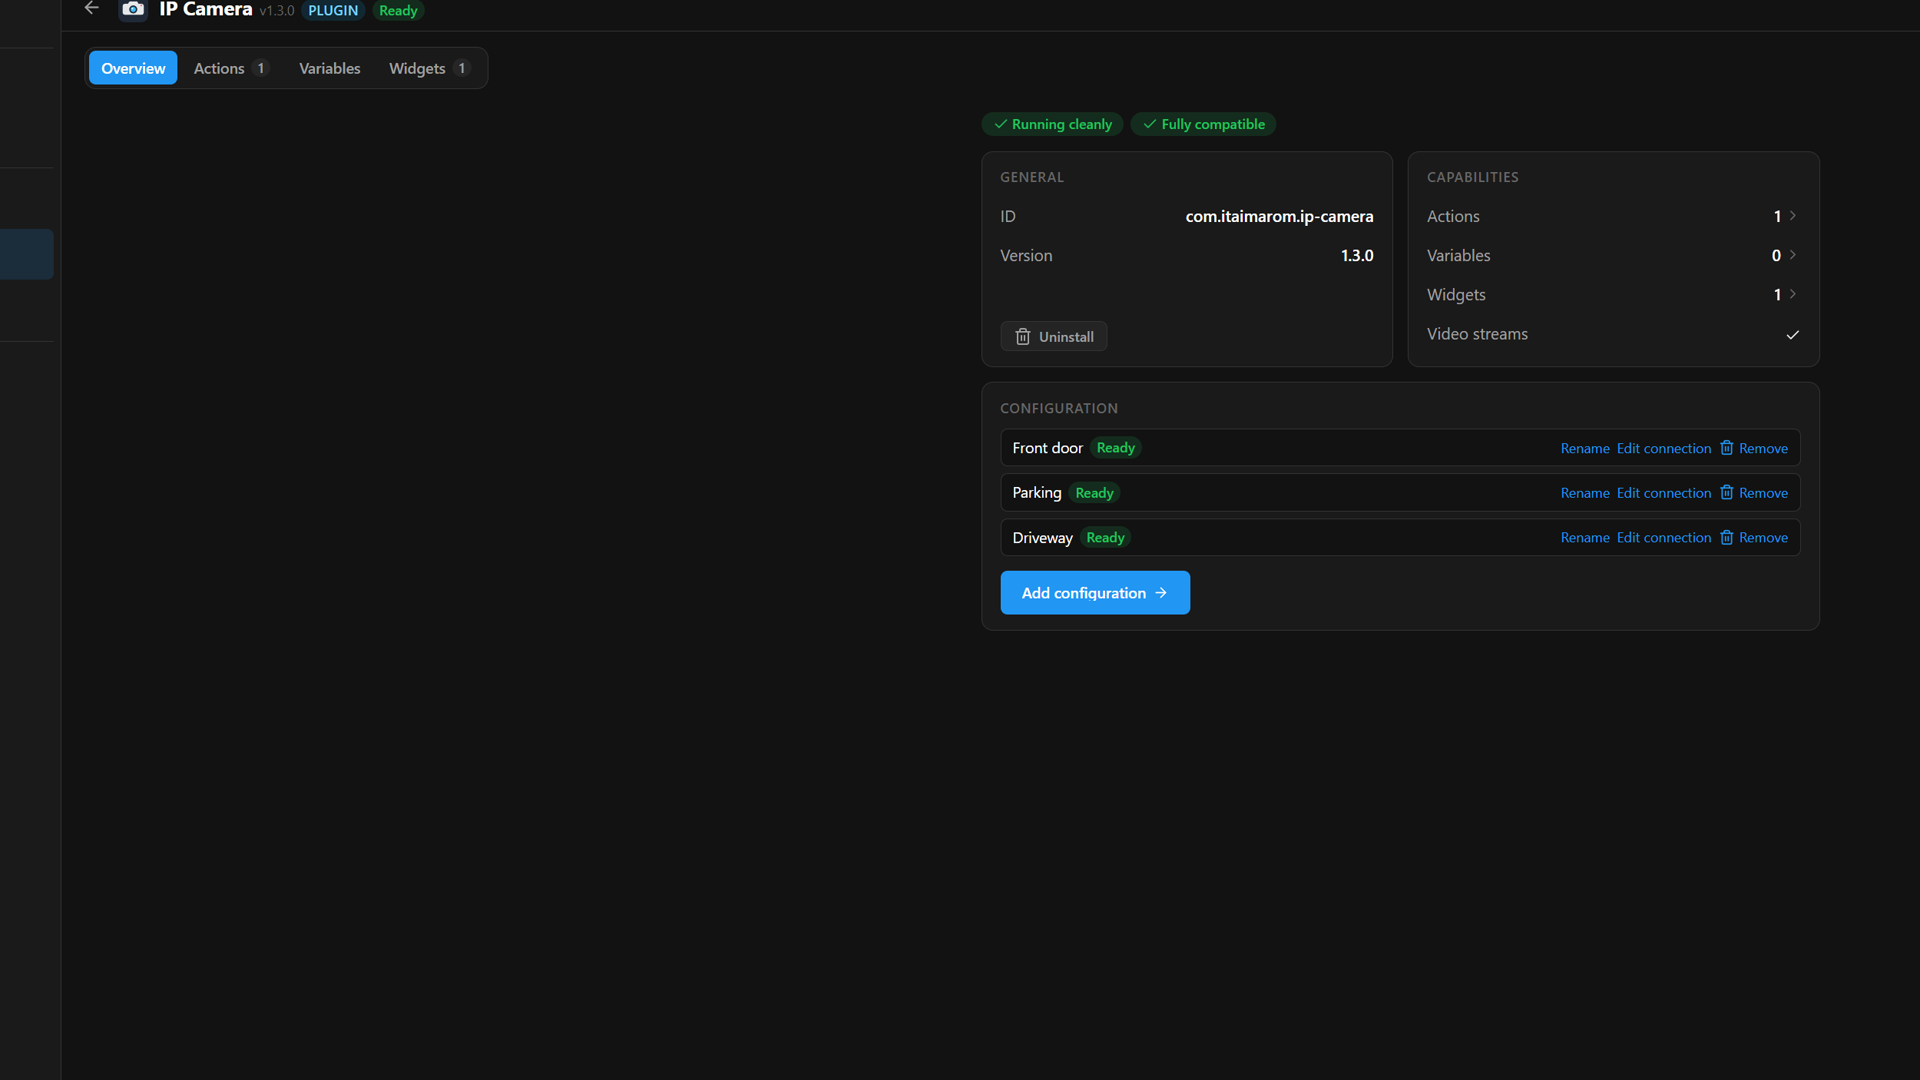
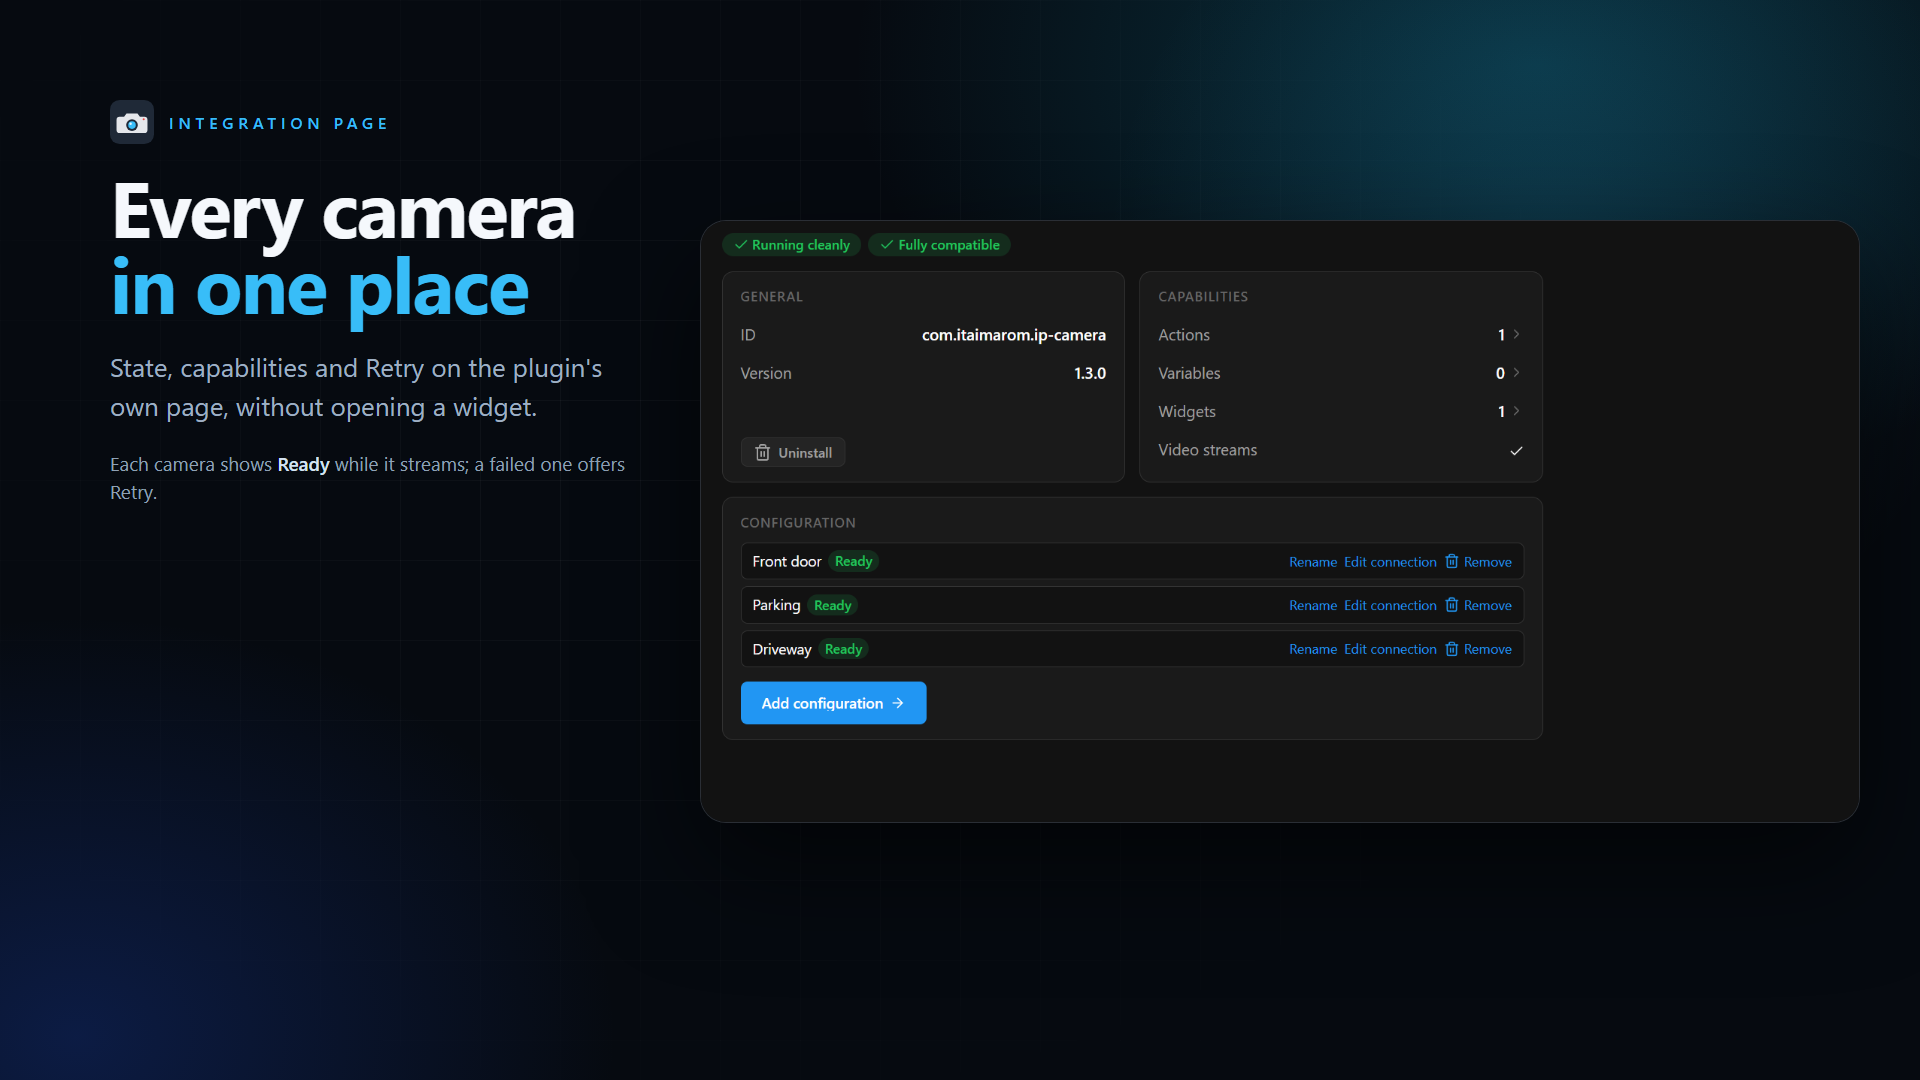
Compose the store captures as store slides
Keep the polished slide layout of the other plugin, but put only real Macro Deck captures inside the panels: the deck with Fill and Fit, the setup dialog, the modal, the integration page and a folder camera. The mockup style is gone; the surrounding background and copy are presentation.

diff --git a/store/src/slides.css b/store/src/slides.css
@@ -1,0 +1,136 @@
+:root {
+  --accent: #38bdf8;
+  --accent-soft: #7dd3fc;
+  --muted: #9fb0c3;
+  --text: #f5f8fc;
+}
+
+* { box-sizing: border-box; }
+
+html, body {
+  margin: 0;
+  width: 1920px;
+  height: 1080px;
+  overflow: hidden;
+  background: #060a10;
+  color: var(--text);
+  font-family: "Segoe UI", system-ui, -apple-system, sans-serif;
+}
+
+.bg {
+  position: absolute;
+  inset: 0;
+  background:
+    radial-gradient(1100px 700px at 80% 6%, rgba(14, 116, 144, .38), transparent 62%),
+    radial-gradient(900px 700px at 4% 96%, rgba(29, 78, 216, .26), transparent 60%),
+    #060a10;
+}
+
+.grid {
+  position: absolute;
+  inset: 0;
+  background-image:
+    linear-gradient(rgba(255, 255, 255, .035) 1px, transparent 1px),
+    linear-gradient(90deg, rgba(255, 255, 255, .035) 1px, transparent 1px);
+  background-size: 80px 80px;
+  -webkit-mask-image: radial-gradient(1200px 900px at 38% 42%, #000 18%, transparent 82%);
+}
+
+.glow {
+  position: absolute;
+  border-radius: 50%;
+  background: radial-gradient(circle, rgba(56, 189, 248, .12), transparent 66%);
+}
+
+.kicker {
+  display: flex;
+  align-items: center;
+  gap: 15px;
+  color: var(--accent);
+  font-size: 16px;
+  font-weight: 600;
+  letter-spacing: .3em;
+  text-transform: uppercase;
+}
+
+.kicker img {
+  width: 44px;
+  height: 44px;
+}
+
+h1 {
+  margin: 24px 0 0;
+  font-size: 90px;
+  font-weight: 700;
+  line-height: .98;
+  letter-spacing: -.025em;
+}
+
+h1.compact {
+  font-size: 78px;
+}
+
+.accent { color: var(--accent); }
+
+.sub {
+  margin: 26px 0 0;
+  font-size: 26px;
+  line-height: 1.5;
+  color: var(--muted);
+}
+
+.pills {
+  display: flex;
+  flex-wrap: wrap;
+  gap: 13px;
+  margin-top: 32px;
+}
+
+.pill {
+  display: flex;
+  align-items: center;
+  gap: 10px;
+  padding: 11px 20px;
+  border: 1px solid rgba(255, 255, 255, .12);
+  border-radius: 999px;
+  background: rgba(255, 255, 255, .035);
+  font-size: 17px;
+  color: #dce7f3;
+  white-space: nowrap;
+}
+
+.pill i {
+  width: 8px;
+  height: 8px;
+  border-radius: 50%;
+  background: var(--accent);
+  box-shadow: 0 0 10px var(--accent);
+}
+
+.note {
+  margin-top: 24px;
+  font-size: 19px;
+  line-height: 1.5;
+  color: #8fa1b5;
+}
+
+.note b {
+  color: #d3e3f2;
+  font-weight: 600;
+}
+
+.shot {
+  position: absolute;
+  overflow: hidden;
+  border: 1px solid rgba(255, 255, 255, .13);
+  border-radius: 26px;
+  background: #0b1017;
+  box-shadow: 0 44px 110px rgba(0, 0, 0, .58);
+}
+
+.shot img {
+  display: block;
+  width: 100%;
+  height: 100%;
+  object-fit: cover;
+}

diff --git a/store/src/01-hero.html b/store/src/01-hero.html
@@ -1,0 +1,29 @@
+<!DOCTYPE html>
+<html lang="en">
+<head>
+<meta charset="utf-8">
+<link rel="stylesheet" href="slides.css">
+</head>
+<body>
+<div class="bg"></div>
+<div class="grid"></div>
+<div class="glow" style="width:900px;height:900px;left:960px;top:-180px"></div>
+<div class="glow" style="width:700px;height:700px;left:420px;top:520px"></div>
+
+<div style="position:absolute;left:110px;top:96px">
+  <div class="kicker"><img src="../../src/IpCamera/Assets/icon.svg" alt="">Macro Deck 3 plugin</div>
+  <h1>IP Camera<br><span class="accent">on your deck</span></h1>
+  <p class="sub" style="width:520px">Live snapshots, MJPEG and RTSP on a tile, a folder, or any widget that can play a video stream.</p>
+  <div class="pills" style="width:540px">
+    <span class="pill"><i></i>Snapshot &middot; MJPEG &middot; RTSP</span>
+    <span class="pill"><i></i>ONVIF discovery</span>
+    <span class="pill"><i></i>Xiaomi Mi 360 via go2rtc</span>
+  </div>
+  <p class="note" style="width:520px">Snapshot and MJPEG need <b>nothing else installed</b>. RTSP is converted with ffmpeg.</p>
+</div>
+
+<div class="shot" style="left:700px;top:120px;width:1200px;height:800px">
+  <img src="img/deck.jpg" alt="Two camera widgets on a Macro Deck deck, one filling its tile and one fitting the frame">
+</div>
+</body>
+</html>

diff --git a/store/src/05-large-view.html b/store/src/05-large-view.html
@@ -1,0 +1,28 @@
+<!DOCTYPE html>
+<html lang="en">
+<head>
+<meta charset="utf-8">
+<link rel="stylesheet" href="slides.css">
+</head>
+<body>
+<div class="bg"></div>
+<div class="grid"></div>
+<div class="glow" style="width:1000px;height:1000px;left:900px;top:-220px"></div>
+
+<div style="position:absolute;left:110px;top:100px;width:380px">
+  <div class="kicker"><img src="../../src/IpCamera/Assets/icon.svg" alt="">Any source</div>
+  <h1 class="compact">Any camera,<br><span class="accent">any feed</span></h1>
+  <p class="sub">Snapshot, MJPEG, RTSP and ONVIF, including the Mi 360 through go2rtc.</p>
+  <div class="pills" style="width:360px">
+    <span class="pill"><i></i>HTTP snapshot</span>
+    <span class="pill"><i></i>HTTP MJPEG</span>
+    <span class="pill"><i></i>RTSP via ffmpeg</span>
+    <span class="pill"><i></i>ONVIF</span>
+  </div>
+</div>
+
+<div class="shot" style="left:520px;top:140px;width:1380px;height:790px">
+  <img src="img/full-view.jpg" alt="A camera filling a Macro Deck folder">
+</div>
+</body>
+</html>

diff --git a/store/src/02-setup.html b/store/src/02-setup.html
@@ -1,0 +1,23 @@
+<!DOCTYPE html>
+<html lang="en">
+<head>
+<meta charset="utf-8">
+<link rel="stylesheet" href="slides.css">
+</head>
+<body>
+<div class="bg"></div>
+<div class="grid"></div>
+<div class="glow" style="width:900px;height:900px;left:900px;top:-260px"></div>
+
+<div style="position:absolute;left:110px;top:90px;width:460px">
+  <div class="kicker"><img src="../../src/IpCamera/Assets/icon.svg" alt="">Camera setup</div>
+  <h1 class="compact">Add a camera<br><span class="accent">in a minute</span></h1>
+  <p class="sub">Pick the source, paste the URL, and choose the frame rate and size.</p>
+  <p class="note">The setup fetches a live frame before it saves. A wrong host, a rejected password or an HTML page gets a <b>clear reason on the URL field</b>.</p>
+</div>
+
+<div class="shot" style="left:990px;top:40px;width:900px;height:1010px">
+  <img src="img/setup-top.png" alt="The camera setup dialog with name, source type, stream URL and the advanced options">
+</div>
+</body>
+</html>

diff --git a/store/src/04-integration.html b/store/src/04-integration.html
@@ -1,0 +1,23 @@
+<!DOCTYPE html>
+<html lang="en">
+<head>
+<meta charset="utf-8">
+<link rel="stylesheet" href="slides.css">
+</head>
+<body>
+<div class="bg"></div>
+<div class="grid"></div>
+<div class="glow" style="width:1000px;height:900px;left:1050px;top:-200px"></div>
+
+<div style="position:absolute;left:110px;top:100px;width:540px">
+  <div class="kicker"><img src="../../src/IpCamera/Assets/icon.svg" alt="">Integration page</div>
+  <h1 class="compact">Every camera<br><span class="accent">in one place</span></h1>
+  <p class="sub">State, capabilities and Retry on the plugin's own page, without opening a widget.</p>
+  <p class="note">Each camera shows <b>Ready</b> while it streams; a failed one offers Retry.</p>
+</div>
+
+<div class="shot" style="left:700px;top:220px;width:1160px;height:603px">
+  <img src="img/integration-top.png" alt="The IP Camera integration page with ready cameras, capabilities and the Add configuration button">
+</div>
+</body>
+</html>

diff --git a/store/src/03-modal.html b/store/src/03-modal.html
@@ -1,0 +1,23 @@
+<!DOCTYPE html>
+<html lang="en">
+<head>
+<meta charset="utf-8">
+<link rel="stylesheet" href="slides.css">
+</head>
+<body>
+<div class="bg"></div>
+<div class="grid"></div>
+<div class="glow" style="width:1000px;height:1000px;left:1050px;top:-200px"></div>
+
+<div style="position:absolute;left:110px;top:100px;width:460px">
+  <div class="kicker"><img src="../../src/IpCamera/Assets/icon.svg" alt="">Large view</div>
+  <h1 class="compact">Tap to see<br><span class="accent">it larger</span></h1>
+  <p class="sub">A short press opens the same stream in Macro Deck's modal.</p>
+  <p class="note">Your own Short Press action still wins, and the tile keeps its live preview in the background.</p>
+</div>
+
+<div class="shot" style="left:660px;top:105px;width:1150px;height:870px">
+  <img src="img/modal.jpg" alt="The camera stream opened in Macro Deck's modal over a dimmed deck">
+</div>
+</body>
+</html>

diff --git a/store/README.md b/store/README.md
@@ -6,19 +6,30 @@ the Store gallery renders them in.
 | File | Shows |
 | --- | --- |
 | `01-hero.png` | The deck with two camera widgets, one filling its tile and one fitting the whole frame, both with a label. |
-| `02-setup.png` | The camera setup dialog with a stream URL, source type and the advanced options. |
+| `02-setup.png` | The camera setup dialog with source type, stream URL and advanced options. |
 | `03-modal.png` | A short press opening the same stream in Macro Deck's modal. |
 | `04-integration.png` | The IP Camera integration page: ready cameras, actions, widget and video stream capabilities. |
 | `05-large-view.png` | A camera filling a folder, edge to edge. |
 
+## Rebuilding
+
+```powershell
+powershell -ExecutionPolicy Bypass -File store/build.ps1
+powershell -ExecutionPolicy Bypass -File store/validate.ps1
+```
+
+The slides are HTML/CSS in `src/`, with the real captures in `src/img`. The build uses headless Microsoft
+Edge as the renderer; it is not a project dependency. Photo-heavy slides are palette-compressed with
+ffmpeg afterwards so each image stays under the 1 MB upload limit.
+
 ## Notes
 
-- These are real captures of Macro Deck 3.0.5 running the plugin, not mockups, drawings or HTML renders.
+- Every piece of UI inside a screenshot panel is a real capture of Macro Deck 3.0.5 with the plugin
+  installed: the widget, the setup dialog, the modal and the integration page. The background, headline,
+  pills and the panel frame are presentation, not plugin UI.
 - The camera pictures are stock photographs served from a local MJPEG test server. No real home,
   street, person or user camera appears in them.
-- The frames were captured at 3840x2126 and cropped and scaled to 1920x1080. Photo-heavy frames are
-  palette-compressed to stay under the 1 MB upload limit.
 - The only generated asset in the package is the plugin icon, which the manifest declares.
 - Claims match `README.md`: RTSP needs ffmpeg, the Mi 360 needs go2rtc, and ONVIF discovery is covered
   by protocol tests.
-- Recapture these after a visible UI change, and check them with `store/validate.ps1`.
+- Recapture the panels after a visible UI change, then rebuild and validate.

diff --git a/TODO.md b/TODO.md
@@ -103,7 +103,7 @@ items.
   `store/listing.md` with the Store copy. The README uses the hero image and a screenshot table. The
   first set were HTML/CSS mockups and the moderator rejected them under Creator Guidelines section 10;
   they were replaced with real captures of Macro Deck 3 with the plugin installed, using local test
-  streams made from stock camera photographs.
+  streams made from stock camera photographs and composed as Store slides.
 
 - [x] **GitHub repository and Store metadata**
   Public repository at https://github.com/dominic25/ItaiMarom.IpCameraPlugin, set in the manifest, with

diff --git a/README.md b/README.md
@@ -19,7 +19,8 @@ is converted with ffmpeg.
 
 ## Screenshots
 
-These are captures from Macro Deck 3 with the plugin installed, using a local test stream.
+These are real captures from Macro Deck 3 with the plugin installed, composed into Store slides. The
+camera picture is a local test stream.
 
 | | |
 | --- | --- |
